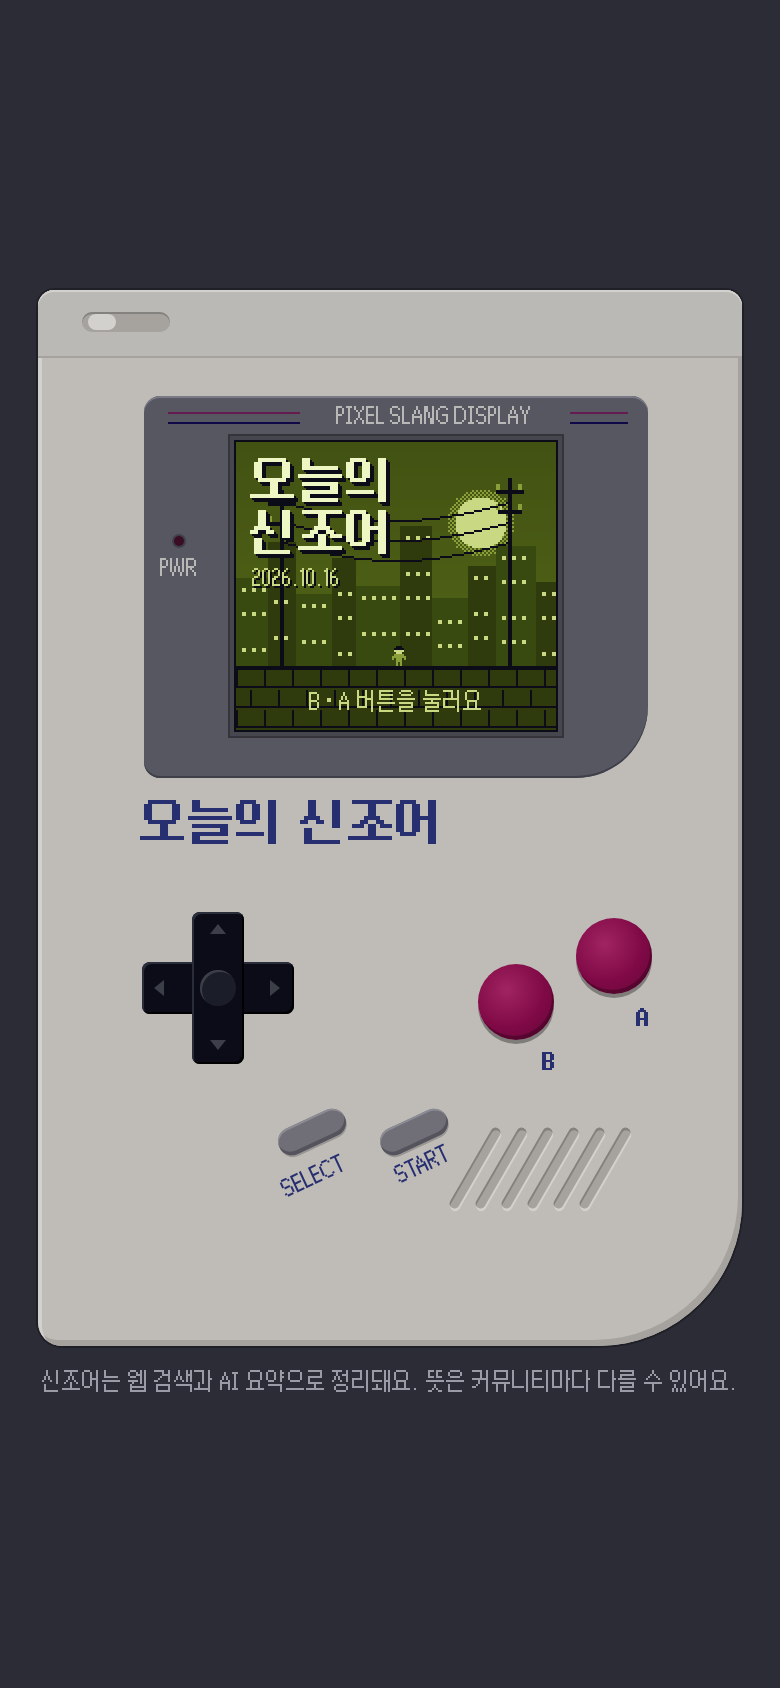
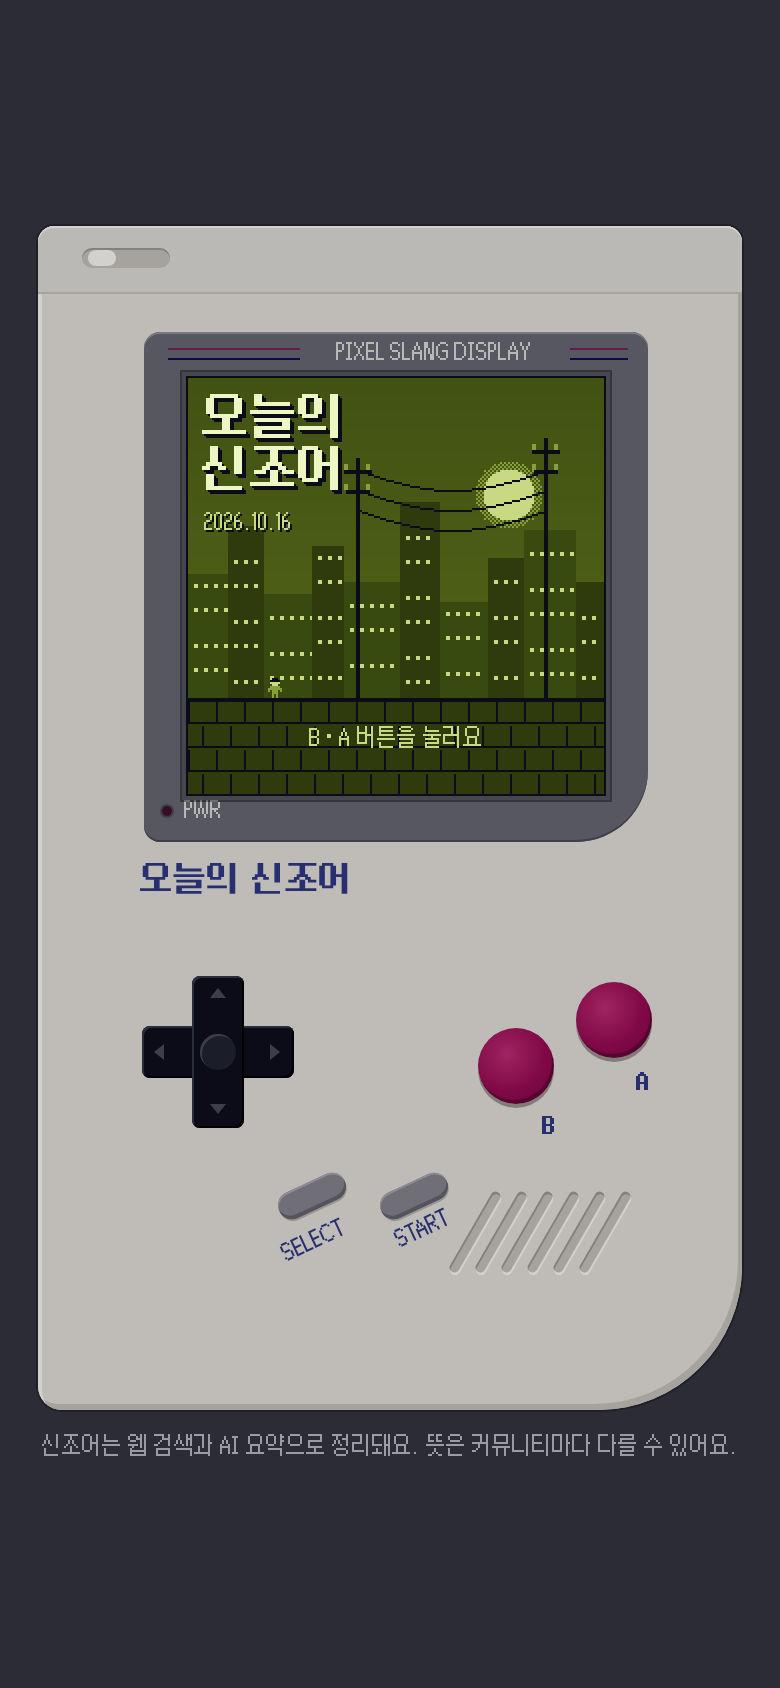
화면을 가로 1.3배·정사각형으로 키우고 아래 버튼 이동, 제목 글자 0.7배
Claude-Session: https://claude.ai/code/session_01FSwdbgB9qiMDCtS5o7uN5c

Changed region(s): [[0.0308, 0.1232, 0.9538, 0.8626]]

diff --git a/index.html b/index.html
@@ -51,9 +51,9 @@
     -webkit-user-select: none; user-select: none; -webkit-tap-highlight-color: transparent;
     touch-action: manipulation; font-synthesis: none;
   }
-  #fit { width: calc(352px * var(--s, 1)); height: calc(528px * var(--s, 1)); }
+  #fit { width: calc(352px * var(--s, 1)); height: calc(592px * var(--s, 1)); }
   #device {
-    position: relative; width: 352px; height: 528px;
+    position: relative; width: 352px; height: 592px;
     transform: scale(var(--s, 1)); transform-origin: 0 0;
     background: var(--body); border-radius: 8px 8px 72px 12px;
     box-shadow: inset 2px 2px 0 var(--body-hi), inset -2px -3px 0 var(--body-lo), 0 0 0 1px #0004;
@@ -69,25 +69,25 @@
   #strip i::after { content: ""; position: absolute; top: 1px; left: 3px; width: 14px; height: 8px; border-radius: 4px; background: var(--body-hi); }
 
   /* 화면 테두리 */
-  #bezel { left: 53px; top: 53px; width: 252px; height: 191px; background: var(--bezel); border-radius: 8px 8px 36px 8px;
+  #bezel { left: 53px; top: 53px; width: 252px; height: 255px; background: var(--bezel); border-radius: 8px 8px 36px 8px;
            box-shadow: inset 0 1px 0 #7a7a86, inset 0 -1px 0 #3f3f49; }
   .stripe { position: absolute; height: 1px; }
   .stripe.p { background: var(--pink); } .stripe.n { background: var(--navy); }
   #bz-text { position: absolute; left: 83px; top: 3px; width: 124px; text-align: center; font: 12px/14px 'MonaS8', monospace; color: #b8b8b6; white-space: nowrap; }
-  #led { position: absolute; left: 15px; top: 70px; width: 5px; height: 5px; border-radius: 50%; background: #3a0d24; box-shadow: 0 0 0 1px #0004; }
+  #led { position: absolute; left: 9px; top: 237px; width: 5px; height: 5px; border-radius: 50%; background: #3a0d24; box-shadow: 0 0 0 1px #0004; }
   #led.on { background: #d41f6f; box-shadow: 0 0 3px 1px #d41f6f88; }
-  #led-t { position: absolute; left: 8px; top: 80px; font: 12px/12px 'MonaS8', monospace; color: #b8b8b6; }
+  #led-t { position: absolute; left: 20px; top: 233px; font: 12px/12px 'MonaS8', monospace; color: #b8b8b6; }
 
-  /* ── 게임 화면 (160×144) ── */
-  #screen { position: absolute; left: 46px; top: 23px; width: 160px; height: 144px; overflow: hidden;
+  /* ── 게임 화면 (208×208) ── */
+  #screen { position: absolute; left: 22px; top: 23px; width: 208px; height: 208px; overflow: hidden;
             background: linear-gradient(var(--scr-a), var(--scr-b)); outline: 1px solid var(--ink);
             box-shadow: 0 0 0 3px #46464f, 0 0 0 4px #0006; color: var(--pale); }
-  #world { position: absolute; left: 0; top: 0; width: 480px; height: 432px; transform: translate(-160px, -144px); }
+  #world { position: absolute; left: 0; top: 0; width: 624px; height: 624px; transform: translate(-208px, -208px); }
   #world.anim { transition: transform .26s steps(9, end); }
-  .panel { position: absolute; width: 160px; height: 144px; }
-  .panel[data-p="c"] { left: 160px; top: 144px; } .panel[data-p="u"] { left: 160px; top: 0; }
-  .panel[data-p="d"] { left: 160px; top: 288px; } .panel[data-p="l"] { left: 0; top: 144px; }
-  .panel[data-p="r"] { left: 320px; top: 144px; }
+  .panel { position: absolute; width: 208px; height: 208px; }
+  .panel[data-p="c"] { left: 208px; top: 208px; } .panel[data-p="u"] { left: 208px; top: 0; }
+  .panel[data-p="d"] { left: 208px; top: 416px; } .panel[data-p="l"] { left: 0; top: 208px; }
+  .panel[data-p="r"] { left: 416px; top: 208px; }
   .pb { position: absolute; left: 8px; right: 8px; top: 21px; bottom: 6px; overflow: hidden; }
   .pb.foot { bottom: 20px; }
   .inner { will-change: transform; }
@@ -118,16 +118,16 @@
 
   /* 시작 화면 */
   #title { position: absolute; inset: 0; background: var(--scr-a); }
-  #title canvas { position: absolute; left: 0; top: 0; width: 160px; height: 144px; image-rendering: pixelated; }
+  #title canvas { position: absolute; left: 0; top: 0; width: 208px; height: 208px; image-rendering: pixelated; }
   #t1 { position: absolute; left: 7px; top: 7px; font: 24px/26px 'Mona12B', sans-serif; color: #eef6c4; text-shadow: 1px 1px 0 var(--ink), 2px 2px 0 var(--ink); }
-  #t2 { position: absolute; left: 8px; top: 62px; font: 12px/12px 'MonaS8', monospace; color: var(--pale); text-shadow: 1px 1px 0 var(--ink); }
-  #t3 { position: absolute; left: 0; right: 0; top: 123px; text-align: center; font: 12px/14px 'MonaS10', sans-serif; color: var(--pale); }
+  #t2 { position: absolute; left: 8px; top: 66px; font: 12px/12px 'MonaS8', monospace; color: var(--pale); text-shadow: 1px 1px 0 var(--ink); }
+  #t3 { position: absolute; left: 0; right: 0; top: 173px; text-align: center; font: 12px/14px 'MonaS10', sans-serif; color: var(--pale); }
 
   /* 라벨 */
-  #brand { left: 51px; top: 254px; font: 24px/26px 'Mona12B', sans-serif; color: var(--label); white-space: nowrap; }
+  #brand { left: 51px; top: 318px; font: 24px/26px 'Mona12B', sans-serif; color: var(--label); white-space: nowrap; transform: scale(.7); transform-origin: 0 0; }
 
   /* 십자키 */
-  #dpad { left: 52px; top: 311px; width: 76px; height: 76px; }
+  #dpad { left: 52px; top: 375px; width: 76px; height: 76px; }
   #dpad .shape { position: absolute; inset: 0; transition: transform .05s; }
   #dpad .shape::before, #dpad .shape::after { content: ""; position: absolute; background: var(--dpad); border-radius: 4px;
        box-shadow: inset 1px 1px 0 #2a2d3a, inset -1px -1px 0 #000; }
@@ -153,18 +153,18 @@
         box-shadow: 0 2px 0 #0005, inset -1px -2px 0 #0004; }
   .rb:active, .rb.press { transform: translateY(2px); box-shadow: 0 0 0 #0005, inset -1px -2px 0 #0004; }
   .rb:focus-visible { outline: 2px solid #fff; outline-offset: 2px; }
-  #bB { left: 220px; top: 337px; } #bA { left: 269px; top: 314px; }
+  #bB { left: 220px; top: 401px; } #bA { left: 269px; top: 378px; }
   .rl { position: absolute; font: 10px/10px 'Mona10B', sans-serif; color: var(--label); }
 
   /* 회색 버튼 (기능은 나중에) */
   .gb { position: absolute; width: 36px; height: 14px; border-radius: 7px; border: 0; padding: 0; cursor: pointer; transform: rotate(-25deg);
         background: var(--pill); box-shadow: inset 0 1px 0 #8d8c94, inset 0 -2px 0 #55545c, 0 1px 0 #0003; }
   .gb:active { transform: rotate(-25deg) translateY(1px); box-shadow: inset 0 1px 0 #55545c; }
-  #bSel { left: 119px; top: 414px; } #bSta { left: 170px; top: 414px; }
+  #bSel { left: 119px; top: 478px; } #bSta { left: 170px; top: 478px; }
   .gl { position: absolute; font: 12px/12px 'MonaS8', monospace; color: var(--label); transform: rotate(-25deg); white-space: nowrap; }
 
   /* 스피커 홈 */
-  #spk { left: 216px; top: 416px; width: 100px; height: 90px; }
+  #spk { left: 216px; top: 480px; width: 100px; height: 90px; }
   #spk i { position: absolute; top: 0; width: 5px; height: 46px; border-radius: 3px; background: var(--body-lo); transform: rotate(30deg);
            box-shadow: 1px 1px 0 var(--body-hi), inset 1px 1px 0 #0003; }
 
@@ -191,7 +191,7 @@
         </div>
         <div id="hud"><div id="hearts"></div><div id="label">뜻</div></div>
         <div id="title">
-          <canvas id="scene" width="160" height="144"></canvas>
+          <canvas id="scene" width="208" height="208"></canvas>
           <div id="t1">오늘의<br>신조어</div>
           <div id="t2"></div>
           <div id="t3" class="blink">B · A 버튼을 눌러요</div>
@@ -212,13 +212,13 @@
 
     <button class="rb" id="bB" aria-label="B 버튼: 오늘의 신조어 첫 번째"></button>
     <button class="rb" id="bA" aria-label="A 버튼: 오늘의 신조어 두 번째"></button>
-    <div class="rl" style="left:252px;top:381px">B</div>
-    <div class="rl" style="left:299px;top:359px">A</div>
+    <div class="rl" style="left:252px;top:445px">B</div>
+    <div class="rl" style="left:299px;top:423px">A</div>
 
     <button class="gb" id="bSel" aria-label="SELECT (아직 기능 없음)"></button>
     <button class="gb" id="bSta" aria-label="START (아직 기능 없음)"></button>
-    <div class="gl" style="left:121px;top:437px">SELECT</div>
-    <div class="gl" style="left:178px;top:431px">START</div>
+    <div class="gl" style="left:121px;top:501px">SELECT</div>
+    <div class="gl" style="left:178px;top:495px">START</div>
 
     <div id="spk" class="abs"><i style="left:0"></i><i style="left:13px"></i><i style="left:26px"></i><i style="left:39px"></i><i style="left:52px"></i><i style="left:65px"></i></div>
   </div>
@@ -273,7 +273,7 @@
   var DIRKEY = { up: 'u', down: 'd', left: 'l', right: 'r' };
 
   function arrows(p, keys) {   // 갈 수 있는 방향 표시
-    var pos = { u: [76, 2], d: [76, 138], l: [2, 68], r: [155, 68] };
+    var pos = { u: [100, 2], d: [100, 202], l: [2, 100], r: [202, 100] };
     keys.forEach(function (k) { p.appendChild(sprite(ARR[k], PALE, 'blink', pos[k][0], pos[k][1])); });
   }
   function body(p, foot) { var b = el('div', 'pb' + (foot ? ' foot' : '')); var i = el('div', 'inner'); b.appendChild(i); p.appendChild(b); return i; }
@@ -338,7 +338,7 @@
   function setPos(k, animate) {
     st.pos = k; var xy = { c: [1, 1], u: [1, 0], d: [1, 2], l: [0, 1], r: [2, 1] }[k];
     world.classList.toggle('anim', !!animate);
-    world.style.transform = 'translate(' + (-160 * xy[0]) + 'px,' + (-144 * xy[1]) + 'px)';
+    world.style.transform = 'translate(' + (-208 * xy[0]) + 'px,' + (-208 * xy[1]) + 'px)';
     $('label').textContent = NAME[k];
     var p = panels[k]; $('sr').textContent = NAME[k] + ': ' + (p.innerText || p.textContent);
   }
@@ -373,38 +373,41 @@
 
   /* ── 크기 맞추기: 정수 배율이면 픽셀이 선명합니다 ── */
   function rescale() {
-    var w = window.innerWidth - 8, h = window.innerHeight - 50, s = Math.min(Math.floor(w / 352), Math.floor(h / 528));
-    if (s < 1) s = Math.min(1, w / 352, h / 528);
+    var w = window.innerWidth - 8, h = window.innerHeight - 50, s = Math.min(Math.floor(w / 352), Math.floor(h / 592));
+    if (s < 1) s = Math.min(1, w / 352, h / 592);
     document.documentElement.style.setProperty('--s', Math.max(.5, s));
   }
   window.addEventListener('resize', rescale); rescale();
 
-  /* ── 시작 화면 그림 (160×144 픽셀) ── */
+  /* ── 시작 화면 그림 (208×208 픽셀) ── */
   function lerp(a, b, t) { return Math.round(a + (b - a) * t); }
   function drawScene() {
+    var W = 208, GY = 160;   // GY: 땅이 시작하는 높이
     var c = $('scene'), g = c.getContext('2d');
     function R(x, y, w, h, col) { g.fillStyle = col; g.fillRect(x, y, w, h); }
-    for (var y = 0; y < 112; y += 4) { var t = y / 112; R(0, y, 160, 4, 'rgb(' + lerp(66, 82, t) + ',' + lerp(82, 100, t) + ',' + lerp(19, 23, t) + ')'); }
+    for (var y = 0; y < GY; y += 4) { var t = y / GY; R(0, y, W, 4, 'rgb(' + lerp(66, 82, t) + ',' + lerp(82, 100, t) + ',' + lerp(19, 23, t) + ')'); }
     // 해
-    g.fillStyle = MID; for (var yy = -17; yy <= 17; yy++) for (var xx = -17; xx <= 17; xx++) { var d = xx * xx + yy * yy; if (d < 289 && d >= 169 && (xx + yy) % 2 === 0) g.fillRect(122 + xx, 40 + yy, 1, 1); }
-    g.fillStyle = PALE; for (yy = -13; yy <= 13; yy++) for (xx = -13; xx <= 13; xx++) if (xx * xx + yy * yy < 169) g.fillRect(122 + xx, 40 + yy, 1, 1);
+    var SX = 160, SY = 58;
+    g.fillStyle = MID; for (var yy = -17; yy <= 17; yy++) for (var xx = -17; xx <= 17; xx++) { var d = xx * xx + yy * yy; if (d < 289 && d >= 169 && (xx + yy) % 2 === 0) g.fillRect(SX + xx, SY + yy, 1, 1); }
+    g.fillStyle = PALE; for (yy = -13; yy <= 13; yy++) for (xx = -13; xx <= 13; xx++) if (xx * xx + yy * yy < 169) g.fillRect(SX + xx, SY + yy, 1, 1);
     // 먼 건물
-    var B = [[0, 18, 44], [16, 14, 62], [30, 20, 36], [48, 12, 54], [60, 22, 40], [82, 16, 70], [98, 18, 34], [116, 14, 50], [130, 20, 60], [150, 12, 42]];
+    var B = [[0, 22, 62], [20, 18, 86], [38, 26, 52], [62, 16, 76], [78, 28, 58], [106, 20, 98], [126, 24, 48], [150, 18, 70], [168, 26, 84], [194, 14, 58]];
     B.forEach(function (b, n) {
-      R(b[0], 112 - b[2], b[1], b[2], n % 2 ? DEEP : '#394a10');
-      for (var wy = 112 - b[2] + 5; wy < 106; wy += 6) for (var wx = b[0] + 3; wx < b[0] + b[1] - 2; wx += 5) if ((wx * 7 + wy * 3 + n) % 5 < 2) R(wx, wy, 2, 2, PALE);
+      R(b[0], GY - b[2], b[1], b[2], n % 2 ? DEEP : '#394a10');
+      for (var wy = GY - b[2] + 5; wy < GY - 6; wy += 6) for (var wx = b[0] + 3; wx < b[0] + b[1] - 2; wx += 5) if ((wx * 7 + wy * 3 + n) % 5 < 2) R(wx, wy, 2, 2, PALE);
     });
     // 전봇대와 전선
-    [[22, 24], [136, 18]].forEach(function (p) { R(p[0], p[1], 2, 112 - p[1], INK); R(p[0] - 6, p[1] + 6, 14, 2, INK); R(p[0] - 5, p[1] + 16, 12, 2, INK); [-6, 5].forEach(function (o) { R(p[0] + o, p[1] + 3, 2, 3, MID); R(p[0] + o, p[1] + 13, 2, 3, MID); }); });
-    for (var i = 0; i < 3; i++) for (var x = 23; x <= 137; x++) { var u = (x - 23) / 114; g.fillStyle = INK; g.fillRect(x, Math.round(30 + i * 10 + 9 * Math.sin(Math.PI * u)), 1, 1); }
+    [[84, 40], [178, 30]].forEach(function (p) { R(p[0], p[1], 2, GY - p[1], INK); R(p[0] - 6, p[1] + 6, 14, 2, INK); R(p[0] - 5, p[1] + 16, 12, 2, INK); [-6, 5].forEach(function (o) { R(p[0] + o, p[1] + 3, 2, 3, MID); R(p[0] + o, p[1] + 13, 2, 3, MID); }); });
+    for (var i = 0; i < 3; i++) for (var x = 85; x <= 179; x++) { var u = (x - 85) / 94; g.fillStyle = INK; g.fillRect(x, Math.round(46 + i * 10 + 10 * Math.sin(Math.PI * u)), 1, 1); }
     // 땅과 벽돌
-    R(0, 112, 160, 32, DEEP); R(0, 112, 160, 2, INK);
-    for (var r = 0; r < 3; r++) { R(0, 122 + r * 10, 160, 1, INK); for (x = (r % 2) * 7; x < 160; x += 14) R(x, 114 + r * 10, 1, 8, INK); }
+    R(0, GY, W, 208 - GY, DEEP); R(0, GY, W, 2, INK);
+    for (var r = 0; r < 4; r++) { R(0, GY + 12 + r * 12, W, 1, INK); for (x = (r % 2) * 7; x < W; x += 14) R(x, GY + 2 + r * 12, 1, 10, INK); }
     // 사람
-    var P = ['..XXX..', '.XXXXX.', '.XXXXX.', '..XXX..', '.XXXXX.', 'XXXXXXX', 'X.XXX.X', '..XXX..', '..X.X..', '..X.X..'];
+    var P = ['..XXX..', '.XXXXX.', '.XXXXX.', '..XXX..', '.XXXXXX', 'XXXXXXX', 'X.XXX.X', '..XXX..', '..X.X..', '..X.X..'];
+    P[4] = '.XXXXX.';
     var s = document.createElement('canvas'); s.width = 7; s.height = 10; var sg = s.getContext('2d');
     for (var j = 0; j < 10; j++) for (i = 0; i < 7; i++) if (P[j][i] === 'X') { sg.fillStyle = j < 2 ? INK : (j < 4 ? PALE : MID); sg.fillRect(i, j, 1, 1); }
-    g.drawImage(s, 78, 102);
+    g.drawImage(s, 40, GY - 10);
   }
   drawScene();
 

diff --git a/sw.js b/sw.js
@@ -1,6 +1,6 @@
 // 앱 껍데기는 캐시해 두고, 단어 목록(words.json)은 항상 네트워크를 먼저 시도합니다.
 // 앱 파일을 고쳤다면 아래 VERSION 숫자를 올려야 기존 사용자에게 반영됩니다.
-const VERSION = 'v3';
+const VERSION = 'v4';
 const CACHE = 'shinjoeo-' + VERSION;
 const SHELL = ['./', './index.html', './manifest.webmanifest', './icons/icon.svg', './icons/icon-192.png', './icons/icon-512.png', './fonts/Mona12-Bold.woff2', './fonts/Mona10-Bold.woff2', './fonts/MonaS10x12.woff2', './fonts/MonaS8x12.woff2'];
 
